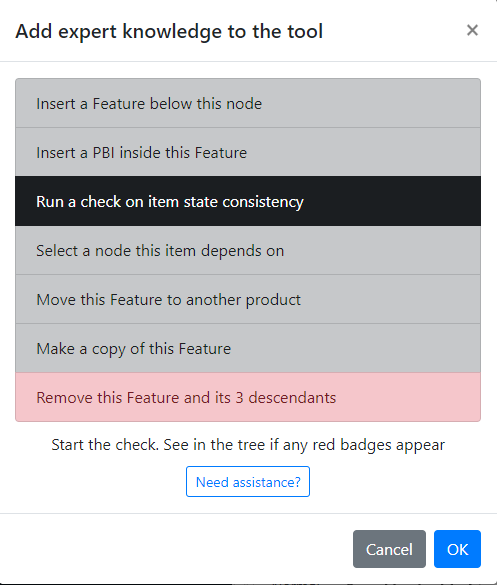
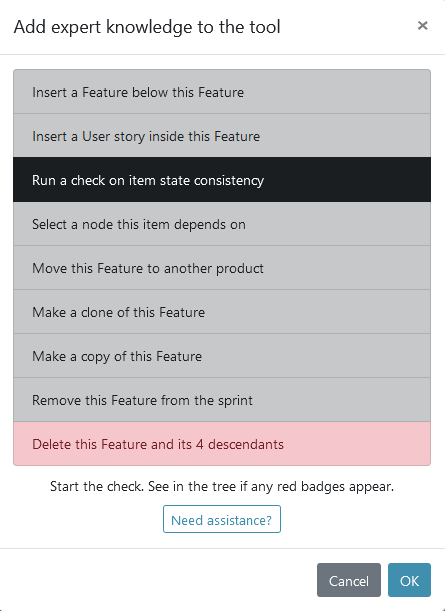
Prepare for release

diff --git a/src/components/userguide/userguide.vue b/src/components/userguide/userguide.vue
@@ -57,7 +57,7 @@
 					<p>To open the context menu <b>left click</b> on a node to select, then <b>right click</b> to open the context modal. You will see a modal like this:</p>
 					<b-img :src="getImgUrl('img/context-menu.png')" alt="Example context menu" />
 					<p>Select the action to execute and press OK.</p>
-					<p>If the item is a product an extra opion is displayed to make a clone this product. This feature is used when you have templates for reuse. Using a clone of a template can speed up the creation of simular products. Note that the history and any attachments are not copied.</p>
+					<p>One of the options is to clone a branch or product. This feature is used when you have templates for reuse. Using a clone of a template can speed up the creation of simular products. Note that attachments, dependencies, conditions, sprint assignments and history are not copied. However the comments are.</p>
 					<p>Click the <b>need assistance?</b> button for some valuable tips. Click on cancel or the small X when uncertain. You can make a shallow copy of any backlog item which will appear above the selected item. When you selected a product item you can make a full clone with a copy of all descendants. See the 'Need assistance?' text.</p>
 					<h4>Drag &amp; drop in the backlog item tree</h4>
 					<p>This a powerful feature of this application. As a PO you can move complete branches within one product and between products (in the Products overview). In the product detail view use the context menu to move a branch to another product. You can promote a branch where a feature becomes an epic and all descendant pbi's features. Or the reverse. But usually you will prioritize items by moving them up or down on the same level. To do so select the item or branch with a <b>left-click</b> on the item and without releasing the mouse button, drag the item to its new position. To select multiple items select one item, then the second while pressing the <b>Ctrl key</b> and without releasing the mouse button move them to the new position. All selected items must have the same parent. Use the Shift key to select a range of items. Not all moves are allowed. Watch the event bar for warnings.</p>

diff --git a/src/components/rel-notes/rel-notes.vue b/src/components/rel-notes/rel-notes.vue
@@ -6,6 +6,23 @@
         <b-col cols="12" class="left-column">
           <h1>RELEASE NOTES</h1>
 					<p v-if="this.$store.state.demo">Note: This is a demo version of the application.</p>
+					<h3>v.1.13 - 16 October 2021 Feature update and bug and security fixes</h3>
+          <p>New features:</p>
+          <ul>
+            <li>Feature added to clone any branch or product</li>
+						<li>Assistance Admins can (un)assign all products of the databases assigned to him/her to all users</li>
+          </ul>
+          <p>Bug fixes:</p>
+          <ul>
+            <li>When selecting a new product the haveWritePermission of the previous selected product is used, fixed</li>
+						<li>Prevent overlapping (concurrent) undo's and branch/product cloning by the user to avoid errors</li>
+            <li>Show a Return button instead of a Cancel button when the database is successfully created</li>
+          </ul>
+          <p>Security:</p>
+          <ul>
+            <li>Vue2-editor dependency update</li>
+          </ul>
+          <hr />
 					<h3>v.1.12 - 19 August 2021 Bug fixes and dependency updates</h3>
           <p>Bug fixes:</p>
           <ul>

diff --git a/src/components/header/header.js b/src/components/header/header.js
@@ -10,7 +10,7 @@ function created() {
 
 function data() {
 	return {
-		appVersion: 'OneBackLog v.1.12',
+		appVersion: 'OneBackLog v.1.13',
 		disableOkButton: false,
 		oldPassword: '',
 		newPassword1: '',
